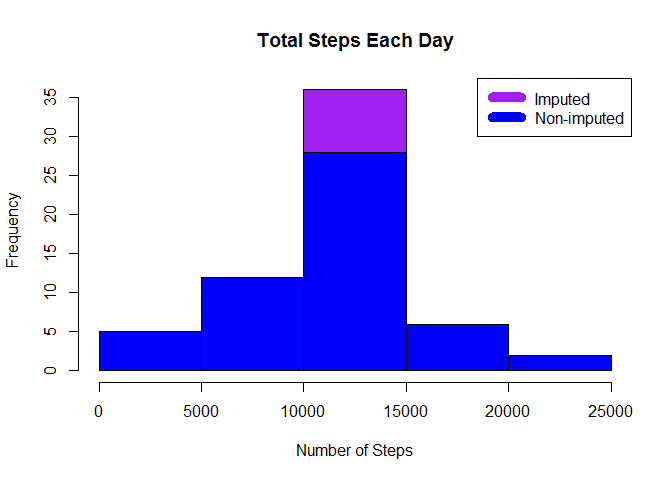
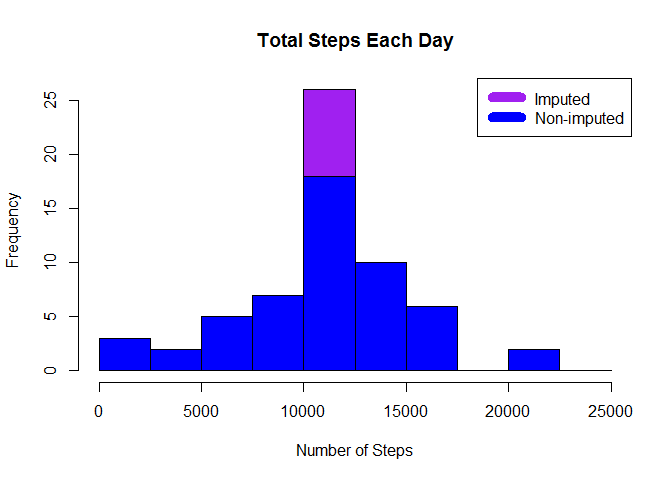
Fixed number format and histogram breaks

diff --git a/PA1_template.html b/PA1_template.html
@@ -155,9 +155,11 @@ ggplot(data=StepsByDay, aes(StepsByDay$steps)) +
   theme(plot.title = element_text(color=&quot;#666666&quot;, face=&quot;bold&quot;, size=22, hjust=0)) +
   theme(axis.title = element_text(color=&quot;#666666&quot;, face=&quot;bold&quot;, size=12)) </code></pre>
[1 lines of base64/hex data omitted]
-<pre class="r"><code>rmean &lt;- mean(StepsByDay$steps)
+<pre class="r"><code>options(&quot;scipen&quot;=100, &quot;digits&quot;=4)
+
+rmean &lt;- mean(StepsByDay$steps)
 rmedian &lt;- median(StepsByDay$steps)</code></pre>
-<p>The <code>mean</code> is 1.076618910^{4}<br />
+<p>The <code>mean</code> is 10766.1887<br />
 The <code>median</code> is 10765.</p>
 </div>
 <div id="what-is-the-average-daily-activity-pattern" class="section level2">
@@ -192,26 +194,26 @@ geom_vline(color=&quot;blue&quot;, xintercept = maxsteps)</code></pre>
 <pre class="r"><code>StepsByDayImp &lt;- aggregate(steps ~ date, ImputedData, sum)
 
 
-hist(StepsByDayImp$steps, main = paste(&quot;Total Steps Each Day&quot;), col=&quot;purple&quot;, xlab=&quot;Number of Steps&quot;)
+hist(StepsByDayImp$steps, main = &quot;Total Steps Each Day&quot;, breaks=seq(0,25000,by=2500) , col=&quot;purple&quot;, xlab=&quot;Number of Steps&quot;)
 
 #Create Histogram to show difference. 
-hist(StepsByDay$steps, main = &quot;Total Steps Each Day&quot;, col=&quot;blue&quot;, xlab=&quot;Number of Steps&quot;, add=T)
+hist(StepsByDay$steps, main = &quot;Total Steps Each Day&quot;, breaks=seq(0,25000,by=2500), col=&quot;blue&quot;, xlab=&quot;Number of Steps&quot;, add=T)
 legend(&quot;topright&quot;, c(&quot;Imputed&quot;, &quot;Non-imputed&quot;), col=c(&quot;purple&quot;, &quot;blue&quot;), lwd=10)</code></pre>
[2 lines of base64/hex data omitted]
 <p>Calculate new mean and median for imputed data.</p>
-<pre class="r"><code>rmean.i &lt;- mean(StepsByDayImp$steps)
-rmedian.i &lt;- median(StepsByDayImp$steps)</code></pre>
+<pre class="r"><code>rmeanImp &lt;- mean(StepsByDayImp$steps)
+rmedianImp &lt;- median(StepsByDayImp$steps)</code></pre>
 <p>Calculate difference between imputed and non-imputed data.</p>
-<pre class="r"><code>mean_diff &lt;- rmean.i - rmean
-med_diff &lt;- rmedian.i - rmedian</code></pre>
+<pre class="r"><code>mean_diff &lt;- rmeanImp - rmean
+med_diff &lt;- rmedianImp - rmedian</code></pre>
 <p>Calculate total difference.</p>
 <pre class="r"><code>total_diff &lt;- sum(StepsByDayImp$steps) - sum(StepsByDay$steps)</code></pre>
 <ul>
-<li>The imputed data mean is 1.076618910^{4}</li>
-<li>The imputed data median is 1.076618910^{4}</li>
+<li>The imputed data mean is 10766.1887</li>
+<li>The imputed data median is 10766.1887</li>
 <li>The difference between the non-imputed mean and imputed mean is 0</li>
-<li>The difference between the non-imputed mean and imputed mean is 1.1886792</li>
-<li>The difference between total number of steps between imputed and non-imputed data is 8.612950910^{4}. Thus, there were 8.612950910^{4} more steps in the imputed data.</li>
+<li>The difference between the non-imputed mean and imputed mean is 1.1887</li>
+<li>The difference between total number of steps between imputed and non-imputed data is 86129.5094. Thus, there were 86129.5094 more steps in the imputed data.</li>
 </ul>
 </div>
 <div id="are-there-differences-in-activity-patterns-between-weekdays-and-weekends" class="section level2">

diff --git a/PA1_template.md b/PA1_template.md
@@ -55,10 +55,12 @@ ggplot(data=StepsByDay, aes(StepsByDay$steps)) +
 ![](PA1_template_files/figure-html/unnamed-chunk-3-1.png)<!-- -->
 
 ```r
+options("scipen"=100, "digits"=4)
+
 rmean <- mean(StepsByDay$steps)
 rmedian <- median(StepsByDay$steps)
 ```
-The `mean` is 1.0766189\times 10^{4}  
+The `mean` is 10766.1887  
 The `median` is 10765.
 
 ## What is the average daily activity pattern?
@@ -108,10 +110,10 @@ Recount total steps by day and create Histogram.
 StepsByDayImp <- aggregate(steps ~ date, ImputedData, sum)
 
 
-hist(StepsByDayImp$steps, main = paste("Total Steps Each Day"), col="purple", xlab="Number of Steps")
+hist(StepsByDayImp$steps, main = "Total Steps Each Day", breaks=seq(0,25000,by=2500) , col="purple", xlab="Number of Steps")
 
 #Create Histogram to show difference. 
-hist(StepsByDay$steps, main = "Total Steps Each Day", col="blue", xlab="Number of Steps", add=T)
+hist(StepsByDay$steps, main = "Total Steps Each Day", breaks=seq(0,25000,by=2500), col="blue", xlab="Number of Steps", add=T)
 legend("topright", c("Imputed", "Non-imputed"), col=c("purple", "blue"), lwd=10)
 ```
 
@@ -120,15 +122,15 @@ legend("topright", c("Imputed", "Non-imputed"), col=c("purple", "blue"), lwd=10)
 Calculate new mean and median for imputed data. 
 
 ```r
-rmean.i <- mean(StepsByDayImp$steps)
-rmedian.i <- median(StepsByDayImp$steps)
+rmeanImp <- mean(StepsByDayImp$steps)
+rmedianImp <- median(StepsByDayImp$steps)
 ```
 
 Calculate difference between imputed and non-imputed data.
 
 ```r
-mean_diff <- rmean.i - rmean
-med_diff <- rmedian.i - rmedian
+mean_diff <- rmeanImp - rmean
+med_diff <- rmedianImp - rmedian
 ```
 
 Calculate total difference.
@@ -136,11 +138,11 @@ Calculate total difference.
 ```r
 total_diff <- sum(StepsByDayImp$steps) - sum(StepsByDay$steps)
 ```
-* The imputed data mean is 1.0766189\times 10^{4}
-* The imputed data median is 1.0766189\times 10^{4}
+* The imputed data mean is 10766.1887
+* The imputed data median is 10766.1887
 * The difference between the non-imputed mean and imputed mean is 0
-* The difference between the non-imputed mean and imputed mean is 1.1886792
-* The difference between total number of steps between imputed and non-imputed data is 8.6129509\times 10^{4}. Thus, there were 8.6129509\times 10^{4} more steps in the imputed data.
+* The difference between the non-imputed mean and imputed mean is 1.1887
+* The difference between total number of steps between imputed and non-imputed data is 86129.5094. Thus, there were 86129.5094 more steps in the imputed data.
 
 
 ## Are there differences in activity patterns between weekdays and weekends?
